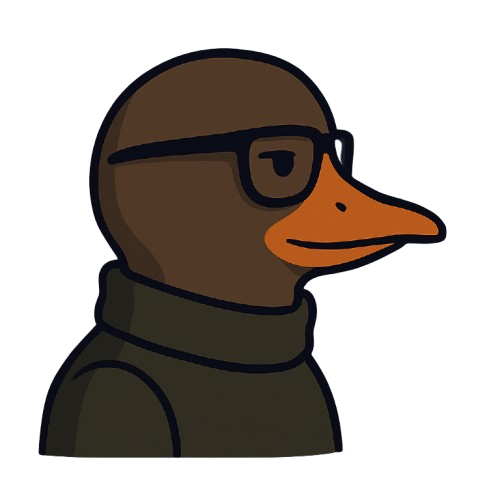
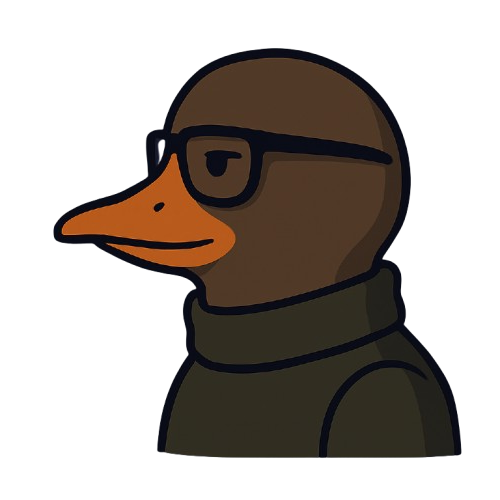
ui fixing

diff --git a/src/App.tsx b/src/App.tsx
@@ -309,7 +309,7 @@ function App() {
     gitSummary?.entries?.[gitSummary.entries.length - 1]?.path
   ]);
 
-  const gridTemplateColumns = "280px minmax(0, 1fr) 420px";
+  const gridTemplateColumns = "360px minmax(0, 1fr) 420px";
 
   const loadSavedCommands = useCallback(async () => {
     try {
@@ -734,10 +734,6 @@ function App() {
       setLoadingAgents(false);
     }
   }, [tauriAvailable, activeTerminal?.cwd, explorerPath]);
-
-  const handleToggleQuackAgency = useCallback(() => {
-    setShowQuackAgencyDrawer(prev => !prev);
-  }, []);
 
   const handleSelectAgent = useCallback(async (agentInfo: AgentInfo) => {
     if (!tauriAvailable) {

diff --git a/src/components/TerminalView.tsx b/src/components/TerminalView.tsx
@@ -569,7 +569,7 @@ function TerminalView({ activeId, terminals, onUserInput, onOutput, onUpdateRece
       className="terminal-surface"
       style={{ overflow: 'hidden', position: 'relative' }}
     >
-      {scrollBadgeVisible === activeId && (
+      {scrollBadgeVisible === activeId && activeId && (
         <button
           type="button"
           className="scroll-to-bottom-badge"

diff --git a/src/index.css b/src/index.css
@@ -42,8 +42,8 @@ body,
 body {
   background-color: #0f1115;
   background-image: url('/images/duck.png');
-  background-size: 50%;
-  background-position: 70% center;
+  background-size: 60%;
+  background-position: 75% bottom;
   background-repeat: no-repeat;
   background-attachment: fixed;
   overflow: hidden;

diff --git a/src/App.css b/src/App.css
@@ -1,6 +1,6 @@
 .app-shell {
   display: grid;
-  grid-template-columns: 650px minmax(0, 1fr) 340px;
+  grid-template-columns: 850px minmax(0, 1fr) 340px;
   grid-template-rows: auto 1fr;
   height: 100vh;
   overflow: hidden;

diff --git a/vite.config.ts b/vite.config.ts
@@ -9,7 +9,7 @@ export default defineConfig(() => ({
   plugins: [react()],
   clearScreen: false,
   server: {
-    port: 5173,
+    port: 5174,
     strictPort: true,
     host: process.env.TAURI_DEV_HOST,
   },
